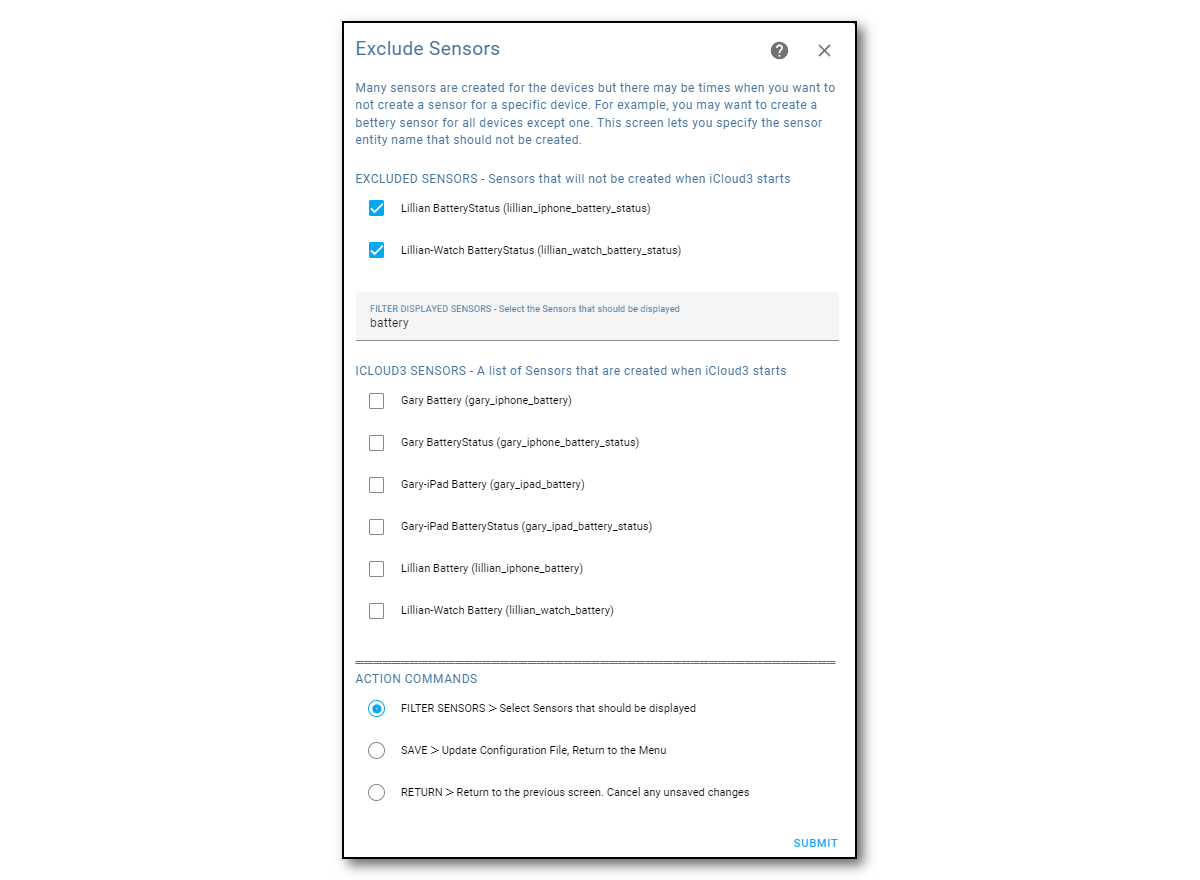
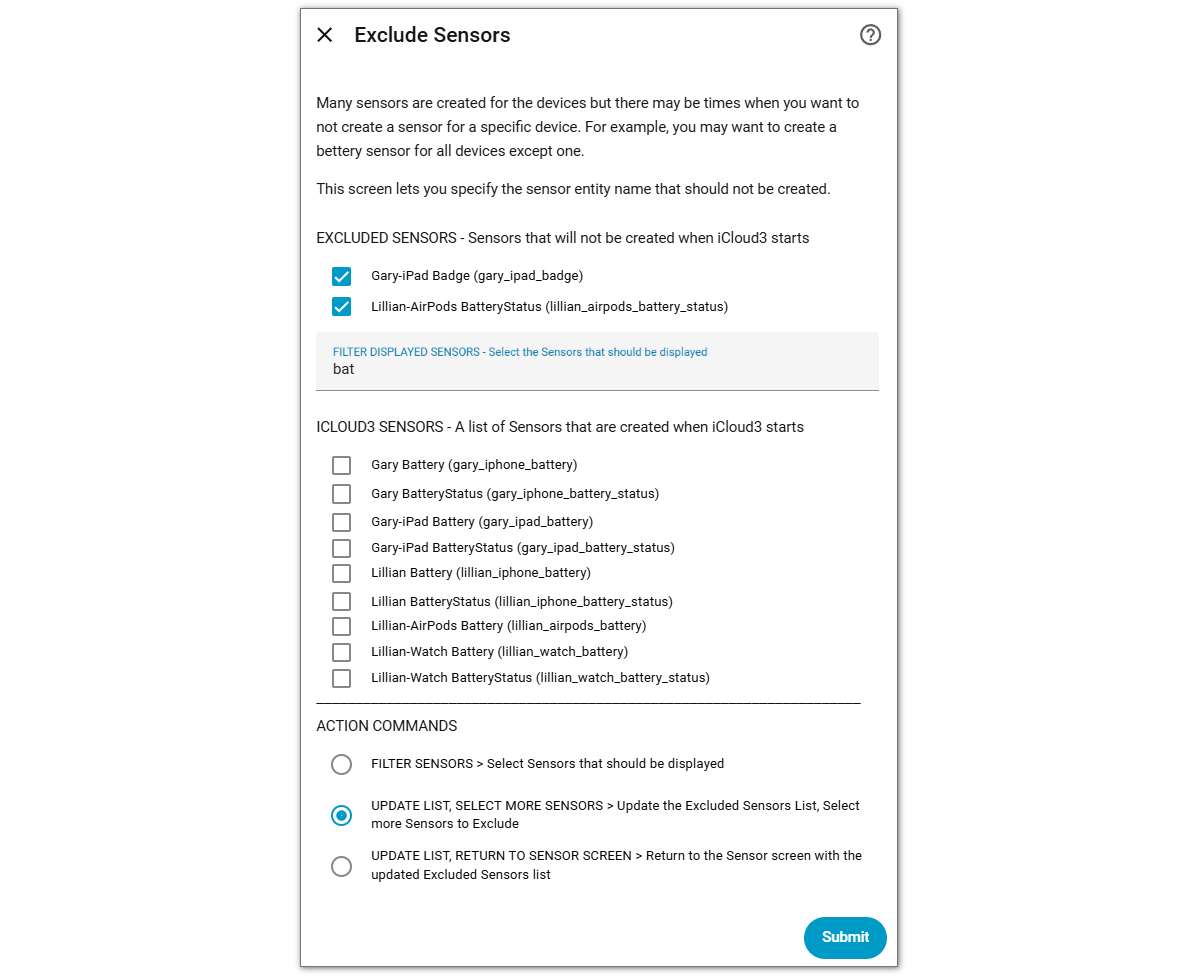
docs

Changed region(s): [[0.2467, 0.0, 0.7708, 1.0]]

diff --git a/docs/chapters/3_devices.md b/docs/chapters/3_devices.md
@@ -1,11 +1,14 @@
 # iCloud3 Devices <!-- {docsify-ignore} -->
 
-iCloud3 will track up to 10 iPhones, iPads and Watches. These screens list the devices you have added to iCloud3 to be tracked or monitored and 
+iCloud3 devices are added, updated and deleted using these screens. When a device is added, a device_tracker entity and all of the sensor entities are created and added to the Home Assistant registry files. When the device is deleted, it is deleted from the iCloud3 configuration files and it's device_tracker and sensor entities are removed from the Home Assistant registry files.
+
+These screens list the devices you have added to iCloud3 to be tracked or monitored.
 
 - **iCloud3 Devices** - on the left below:
   - Lists the devices that will be tracked and monitored
   - Select the device to be updated or deleted
   - Add a new iCloud3 device
+  - Delete the selected iCloud3 device
   - Change the order of the devices on the Event Log
 - **Update iCloud3 Device** - on the right below:
   - Selected from -  *Apple Account & Mobile App - Data Source* screen
@@ -13,29 +16,42 @@ iCloud3 will track up to 10 iPhones, iPads and Watches. These screens list the d
   - Add a new iCloud3 device
   - Specify the Apple/iCloud Account and Mobile App that provide location and other data for this device
 
-![](../images/device-list-update.png)
+![](../images/cf-device-list-update.png)
 
 
 
-## Add and Update an iCloud3 Device 
+## Add and Update an iCloud3 Device
 
 Fields that are updated on this screen:
 
 1. **iCloud3 device_tracker Entity ID**  (*gary_iphone*) - The unique name used to create the device_tracker entity (device.tracker.gary_iphone) and sensor entities (sensor.gary_iphone_battery_level).
-
 2. **Friendly Name** -  Typically, this is the same as the name on the *Settings App > General > About* value.
-
 3. **Apple/iCloud device, Mobile App device** - Apple and Mobile App device providing location, zone and other data. See examples of the lists below.
-
 4. **Picture or icon** - An image file that is displayed on the dashboard. See examples of the lists below.
-
 5. **Tracking Mode** - Describes how the device will be tracked: 
 
    - **Track** - Actively requests the location and track the device,
-
    - **Monitor** - Do not request the location. Report it's location when a tracked device is updated using data that is also  returned from iCloud
-
    - **Inactive** - Not tracked or monitored. This option keeps the device's parameters in the the configuration file but does not track it. 
+
+## Delete an iCloud3 Device
+
+1. Select the device.
+2. Select **Delete Device** and **Submit**.
+
+When it is deleted, it is removed from the iCloud3 configuration file, device_tracker registry and entity registry files and it will not be tracked or monitored.
+
+#### Deleting from the iCloud3 Integration screen or HA Devices screen
+
+> !  This is not recommended. Use _Delete an iCloud3 Device_ described above instead.
+
+It is possible to delete or disable a device from outside of iCloud3 on these screens. However, this causes a conflict between the iCloud configuration file and the HA entity registry files. To prevent this conflict:
+
+- The device is set to an _Inactive_ status in the iCloud3 configuration file which prevents it from being recreated when iCloud3 restarts
+- It's  device_tracker and sensor entities are removed from the HA entity registry files active and deleted lists.
+- It is removed from the list of devices on the iCloud3 Integration screen.
+
+
 
 ## Assign the iCloud and Mobile App Device
 
@@ -43,7 +59,7 @@ When iCloud3 starts, the Apple Accounts are opened and the devices in the accoun
 
 Below are examples of these selection lists:
 
-![](../images/device-update-sel-lists.png)
+![](../images/cf-device-update-sel-lists.png)
 
 
 
@@ -58,7 +74,7 @@ There are several parameters that further configure the device that are rarely u
 - **Track from Zone**s - The device always updates the time and distance from the Home zone. This selects other zone(s) you also want to track the time and distance from.
 - **Track from Home Zone Override** - The Home zone is the main zone for all activities. Examples of when you might want to override the Home zone and set another zone as the main zone include you are away from Home (at a second home, on vacation), the device belongs to your parents and you want to monitor where they are in relation to their house.
 
-![](../images/device-update-other-parms.png)
+![](../images/cf-device-update-other-parms.png)
 
 ## Change Event Log Device Order
 
@@ -67,4 +83,4 @@ The devices are listed in the Event Log in the order they are added (monitored d
 1. Select the device.
 2. Select *Move Up* or *Move Down*, then select *Submit*.
 
-![](../images/device-order.png)
+![](../images/cf-device-order.png)

diff --git a/docs/chapters/5_tools.md b/docs/chapters/5_tools.md
@@ -1,4 +1,4 @@
-# Maintenance Tools <!-- {docsify-ignore} -->
+# Tools <!-- {docsify-ignore} -->
 
 ##### Selected From: *Configure Devices & Sensors Menu*
 
@@ -21,22 +21,62 @@ The type of messages that are written to the iCloud3 Log file (icloud3.log
 
 Various tools that will perform maintenance actions on the iCloud3 Configuration file and Apple account cookie and session files.
 
--  **Clear Device's data Source Selections** -  Erase the Apple Acct Device and Mobile App Device selection fields for all iCloud3 devices (Update iCloud3 Device screen)
+-  **Cleanup HA Entity Registry** - Lists the iCloud3 devices and sensor entity items from the HA Device and Entity Registries, delete the selected devices and sensors from the HA registries
+-  **Reload iCloud3, Restart HA** - Reload the current version of iCloud3 and Restart Home Assistant. *This does not load a new version of iCloud3.*
+-  **Clear Device's Data Source Selections** -  Erase the Apple Acct Device and Mobile App Device selection fields for all iCloud3 devices (Update iCloud3 Device screen)
 
 -  **Remove all Apple Accounts and Devices** - Erase all Apple Accts (Apple Acct and Mobile App screen) and Erase all Devices (iCloud3 Devices screen)
 
 -  **Reset General Configuration Parameters** - Set the General Parameters to their default value (Other Parameter Menu screens). Sensors are reset on the Sensors screen.
 
--  **Delete All Apple Cookie Files** - Delete Apple Acct Cookie & Session files in the **.storage/icloud3.apple_acct* directory, and Restart HA
+-  **Delete All Apple/iCloud Cookie Files** - Delete Apple Acct Cookie & Session files in the **.storage/icloud3.apple_acct* directory, and Restart HA
 
 -  **Delete All iCloud3 Configuration Files** - Delete the iCloud3  Configuration files in the *.storage/icloud3* directory. 
 
--  **Restart HA** - Restart Home Assistant and iCloud3
-
--  **Repair _2 Sensor Entity Name Errors** - Rename ‘_2’ sensor entities back to the correct name without the *_2* extension
-
-  
+-  
 
 
+![](../images/cf-tools.png)
 
-![](../images/tools.png)
+
+
+# Cleanup HA Entity Registry Devices & Sensors
+
+This screen scans the HA Entity and Device registries and displays iCloud3 entities in following the categories:
+   - **Active** - Devices being tracked or monitored
+   - **Inactive** - Devices that are set to `Inactive` and not tracked by iCloud3
+   - **Orphaned** - Sensors that once existed but are no longer associated with the iCloud3 Integration
+   - **Disabled** - Devices & Sensors that have been disabled on the HA Devices, Entity or iCloud3 Integration screen
+   - **Suffix Error**s - Sensors that have been duplicated by HA and are now unavailable
+   - **Deleted Devices** - Sensors that were used by a device that has been deleted from iCloud3
+
+- **Deleted Sensor**s - Sensors that belong to an iCloud3 device that are no longer used
+      
+
+Removing all traces of a device or sensor from the HA Registries can solve various problems, including:
+
+- Devices and sensors with duplicate entities not being created
+- Sensors not being creating because they have been disabled in HA but Active in iCloud3
+- Unused sensors are preventing new sensors with the same name for a new device not being created
+
+### Device Information
+
+The device and it's sensors can be displayed showing an abbreviated list (left) or showing all of the sensors (right).  Use the _Display Sensor Names (2-Lines/All)_ to toggle the display. 
+
+The device_tracker entity actually resides in two HA files, the _.storage/core.device_registry_ and _.storage/core.entity_registry_. This is noted in the sensor list by the _.dr:_ and  _.er:_ prefix (.dr:gary_iphone and .er:gary_iphone).
+
+![](../images/cf-tools-cleanup-sensors.png)
+
+## Deleting a device and sensor entities
+
+To delete the items from the registry:
+
+1. Check the device to delete
+2. Select **Delete Selected Device Sensors**, select **Submit**
+
+Note: Select *Check All Items/Uncheck All Items* to select or unselect all devices.
+
+- Non-Active categories can be removed from the Registry files. 
+- Active are removed and then recreated since they belong to iCloud3 devices being tracked or monitored
+
+![](../images/cf-tools-cleanup-entities.png)

diff --git a/docs/chapters/5_sensors.md b/docs/chapters/5_sensors.md
@@ -2,7 +2,30 @@
 
 ##### Selected From: *Configure Devices & Sensors Menu*
 
-Many sensors are used to display tracking results and other information for a device. This screen is used to select the sensors that should be created.
+Many sensors are used to display tracking results and other information for a device. This screen is used to select the sensors that should be created and to exclude specific sensors from being created.
+
+### Creating, Deleting and Excluding a Sensors
+
+The Sensor Groups below list the sensors that can be created in several categories. 
+
+- **Tracked devices** - Enabling the sensor will create it and add it to the HA entities registry, disabling the sensor will prevent it from being created and remove it from the HA entities registry. 
+
+- **Monitored devices** - These devices are not actively tracked but are updated when another tracked device is updated and are a little different. A special _Monitored Device sensors_ category list groups of sensors that will be created. They are badge sensors, battery sensors and location sensors.
+
+- **Excluding sensors** - You can prevent a specific sensor for a specific device from being created using the _Excluded Sensors_ screen. For example, you want to track an iPad but you are not interested in the polling interval, next or last update time or when it was last located. These specific sensors can be added to the excluded list and they will not be created.
+
+#### Deleting or disabling a sensor on the iCloud3 Integration screen or HA Entities screen
+
+> !  This is not recommended. Use _Sensors > Exclude Sensor_ screen instead.
+
+It is possible to delete or disable a sensor from outside of iCloud3 on these screens. However, this causes a conflict between the iCloud configuration file and the HA entity registry files. To prevent this conflict:
+
+- The sensor is added to the Excluded Sensors List in the iCloud3 configuration file which prevents it from being recreated when iCloud3 restarts
+- The sensor entity is removed from the HA entity registry files active and deleted lists so it can not be reenabled from the HA screens.
+
+The sensor is listed in the Excluded Sensors group. Uncheck the sensor to recreated it.
+
+### Sensor Groups
 
 The sensors are grouped into the following categories:
 
@@ -44,15 +67,34 @@ The sensors are grouped into the following categories:
 
 - **Other tracking sensors:**
 
-  - **_gps_accuracy** - GPS acuracy of the last location coordinates
+  - **_gps_accuracy** - GPS accuracy of the last location coordinates
   - **_vertical_accuracy** - Vertical (Elevation) Accuracy
   - **_altitude** - Altitude/Elevation
 
 - **Excluded sensors** -  Sensors that will not be created when iCloud3 starts
 
 
+![](../images/cf-sensors.png)
 
 
 
+## Exclude Sensors
 
-![](../images/sensors.png)
+This screen is used to add sensors for a specific device to the Exclude Sensors list.
+
+![](../images/cf-sensors-exclude.png)
+
+### Filter the list of available sensors
+
+A list of [devicename]_[sensorname] entities to select from is displayed on this screen. This list can be filtered to the ones you are interested in. _
+
+1. Enter part of the sensor name in the _Filter Displayed Sensors_ field.
+2. Select **Filter Sensors**, then select **Submit**. Only sensors with the Filter text are displayed.
+
+The screen image below, _bat_ was entered to list all sensors with _bat- in the entity name (battery, battery_status).
+
+### Add Excluded Sensor
+
+1. Enter part of the name in the _Filter Displayed Sensors_ field, select Submit.
+2. Check the sensors to be added to the list.
+3. Select **Update List, Return to Sensor Screen**. then select **Submit**.

diff --git a/docs/chapters/4_waze-map-card.md b/docs/chapters/4_waze-map-card.md
@@ -4,7 +4,7 @@ Use the *sensor.icloud3_wazehist_track* sensor entity as the source of a Lovelac
 
 Create a Lovelace map card:
 
-![](../images/wazehist-map-card-setup.png)
+![](../images/cf-wazehist-map-card-setup.png)
 
 Or copy the yaml code below into the *Show Code Editor* yaml code field on a new Lovelace card.
 

diff --git a/docs/chapters/5_special-zones.md b/docs/chapters/5_special-zones.md
@@ -18,4 +18,4 @@ This screen is used to configure:
 
 
 
-![](../images/special-zones.png)
+![](../images/cf-special-zones.png)

diff --git a/docs/chapters/5_waze.md b/docs/chapters/5_waze.md
@@ -18,4 +18,4 @@ The following fields are available:
 
 
 
-![](../images/waze.png)
+![](../images/cf-waze.png)
